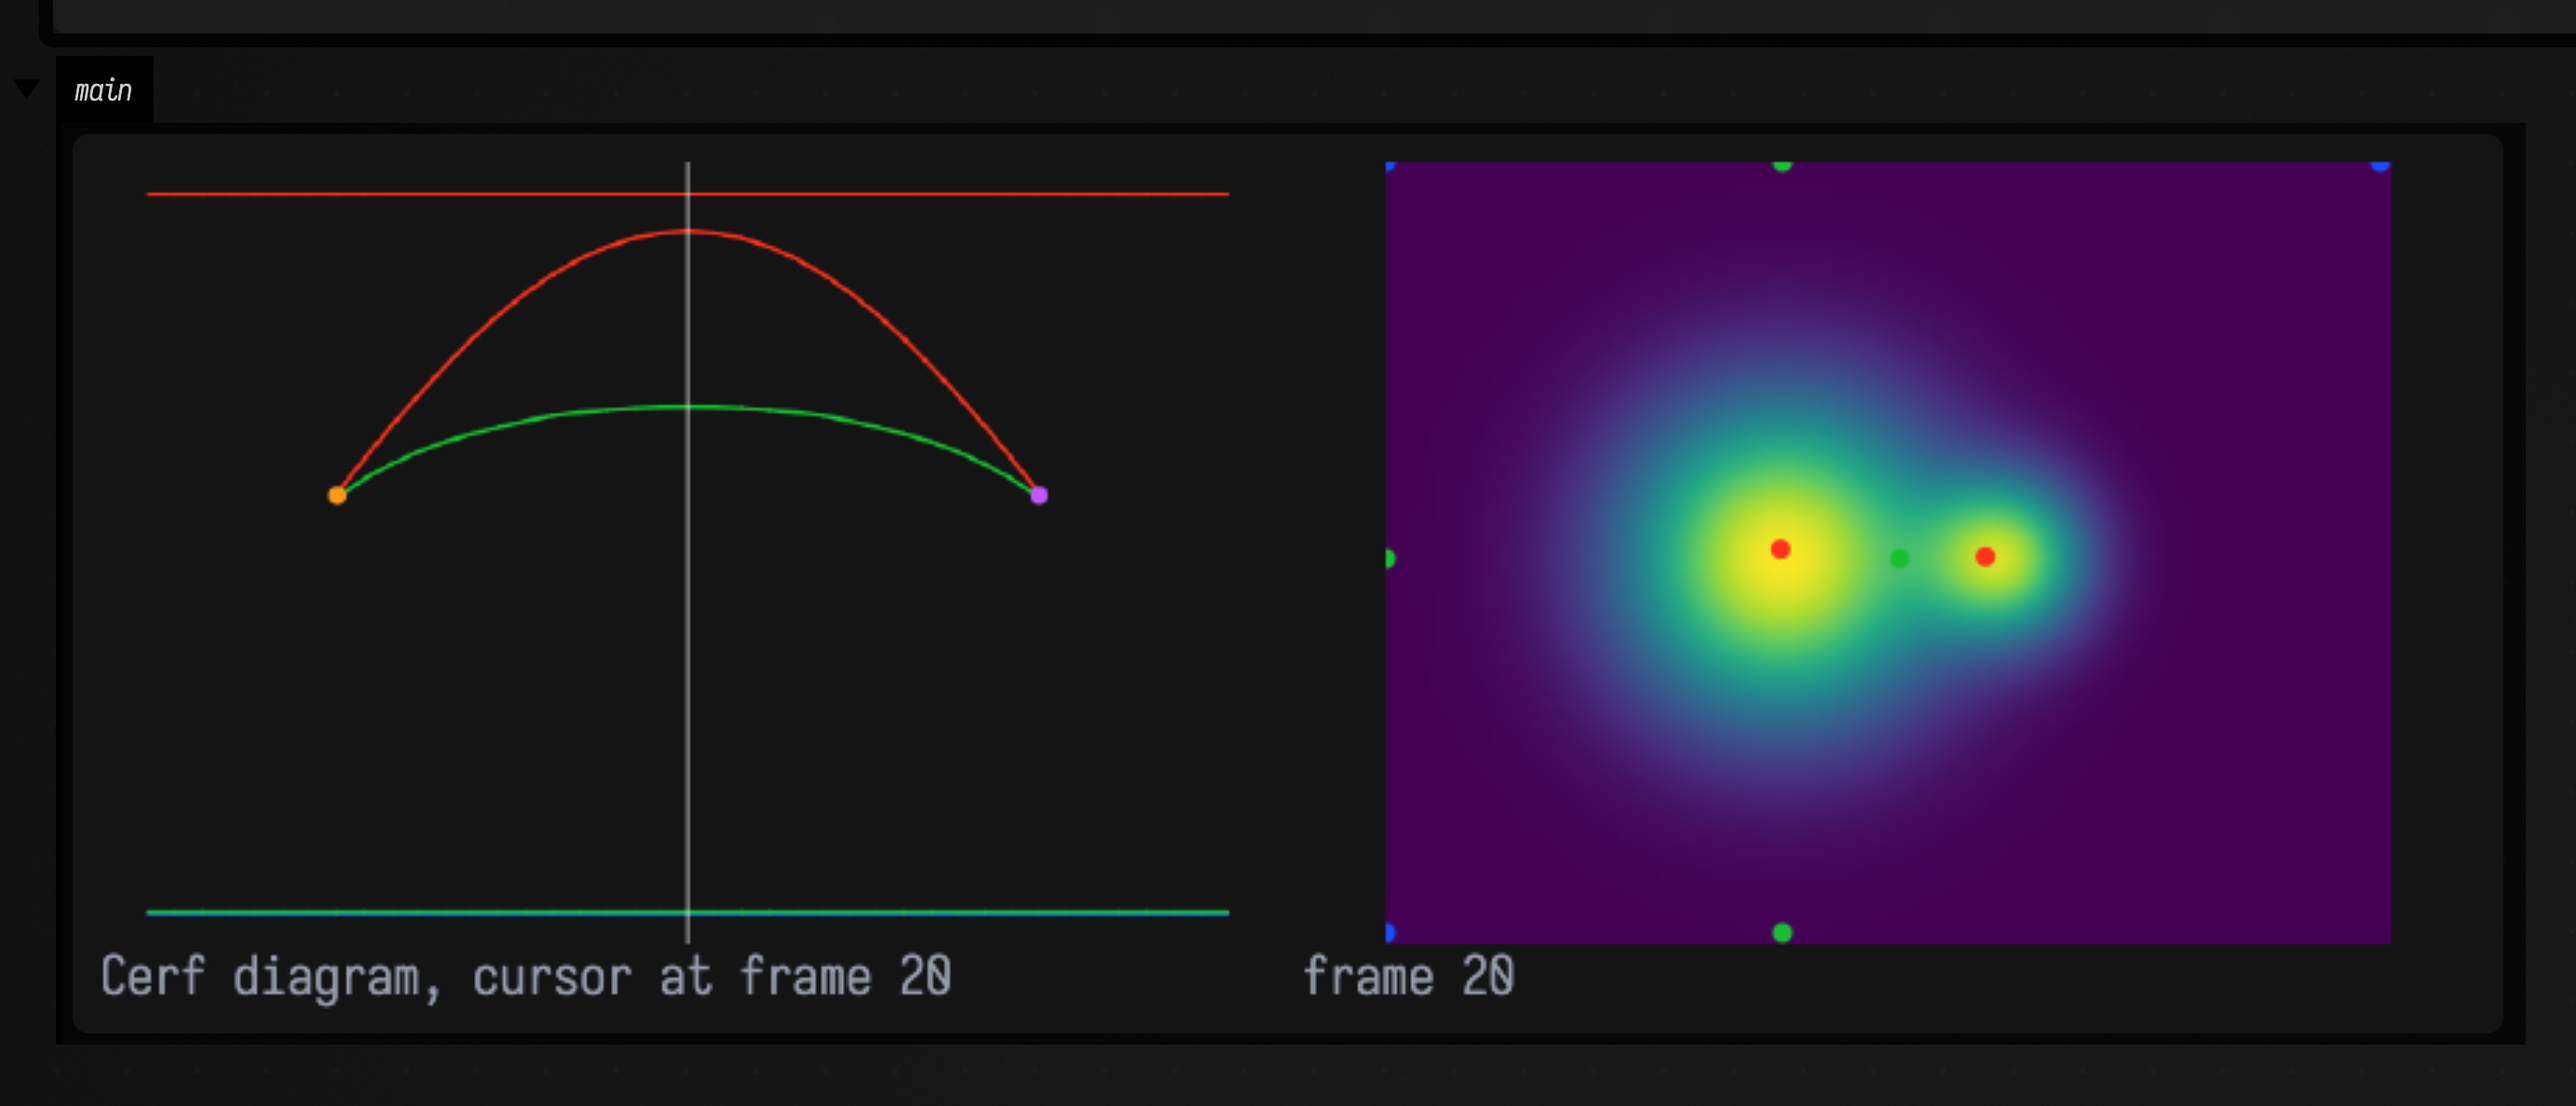
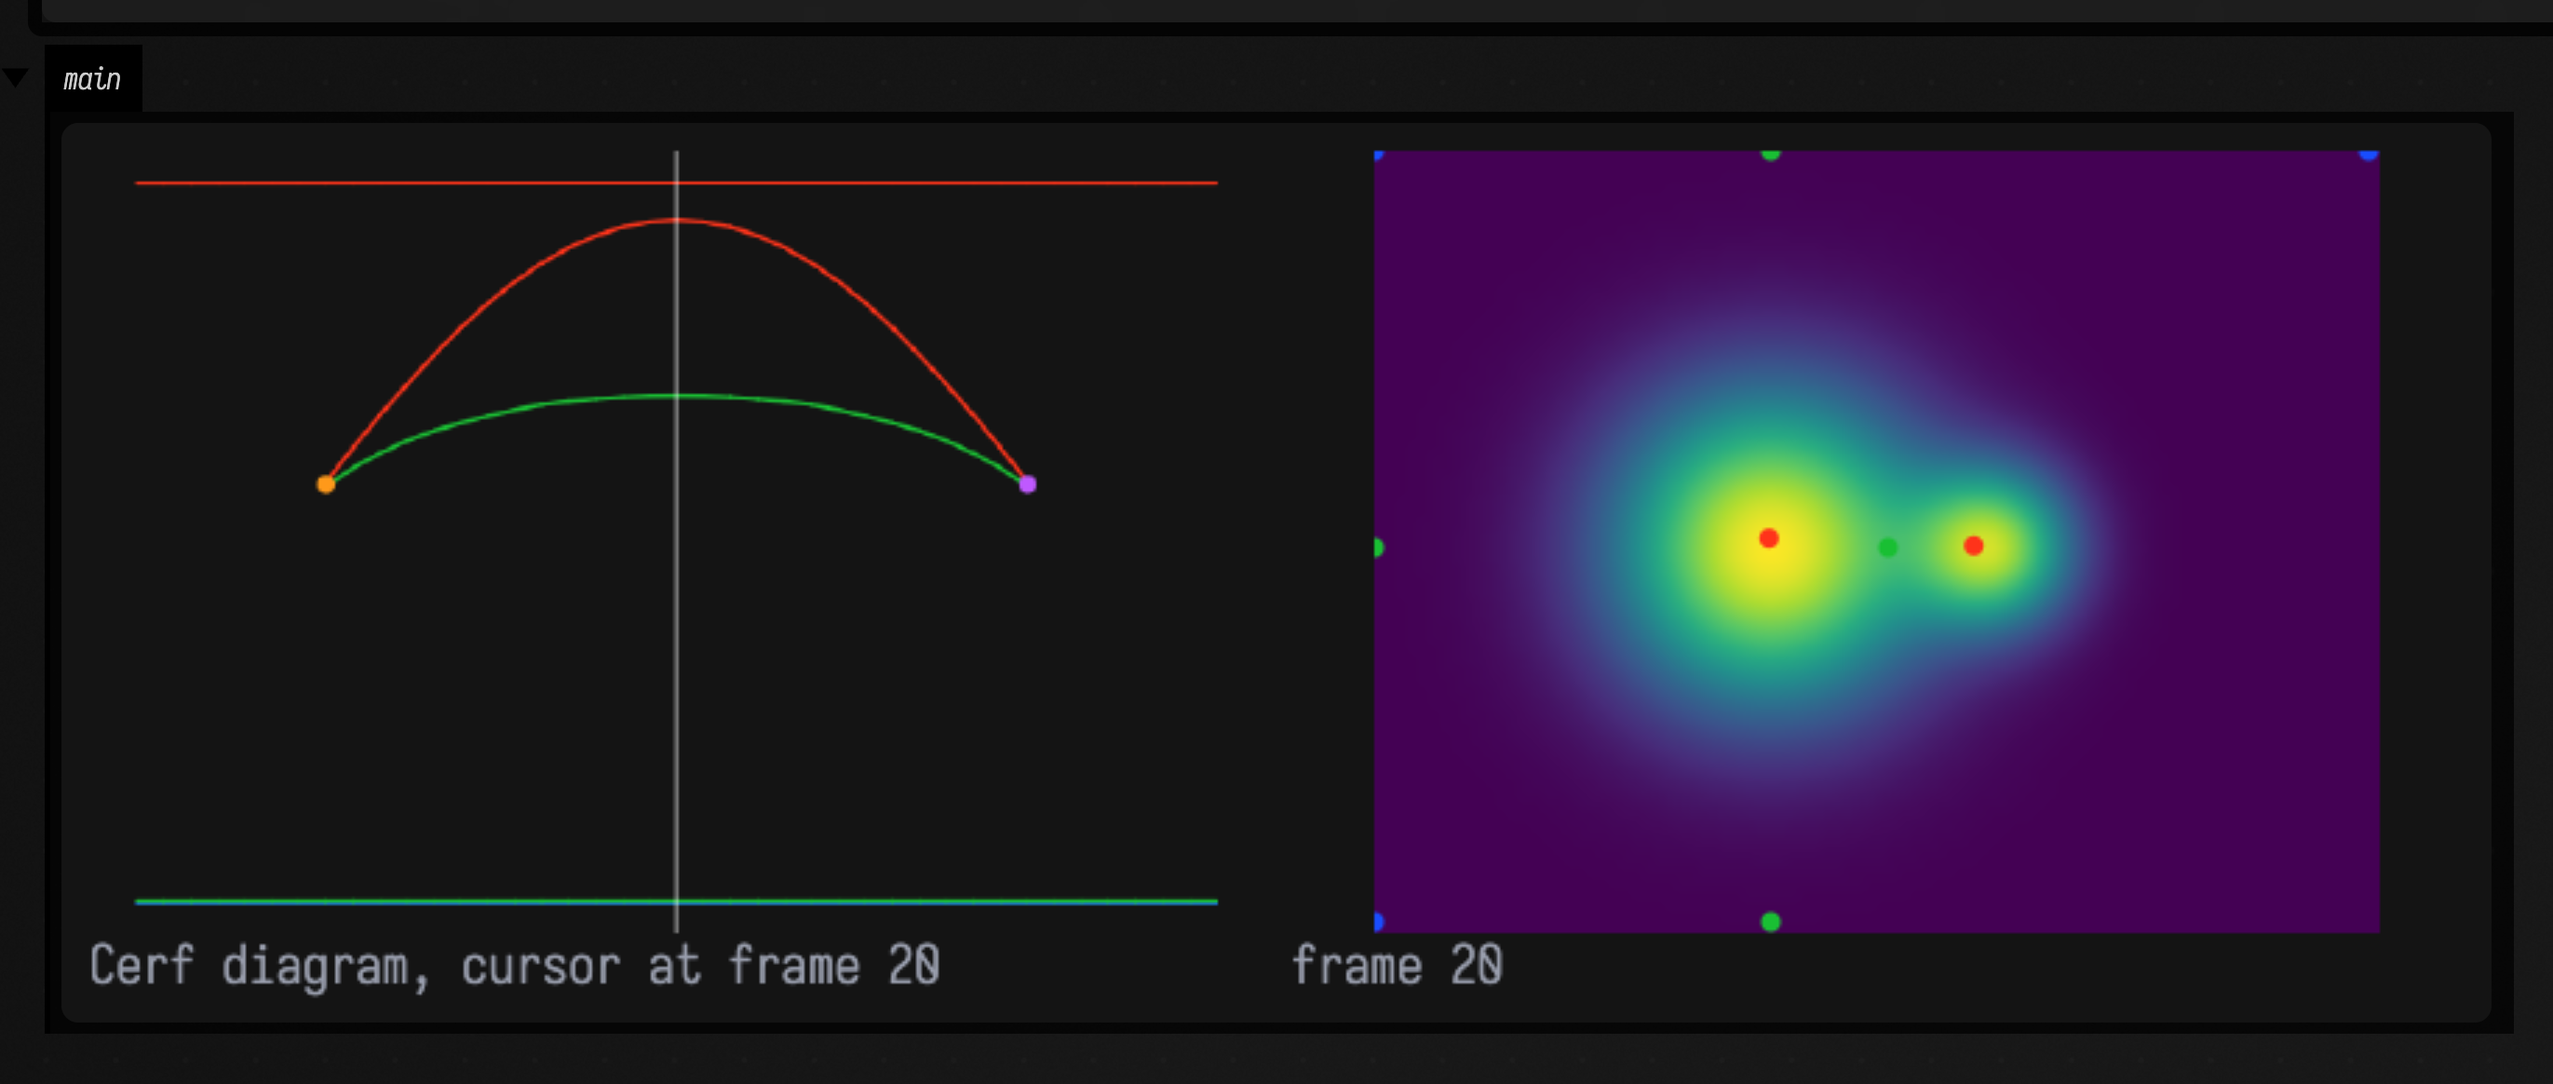
topology_tracking: a churning Gray-Scott Cerf diagram; reframe both captures
Replaces the seed-square example (3 births, half-empty 2.8 MB capture)
with 4,800 steps of spots splitting: 114 births, 35 cancellations,
12,734 swaps. Drops the slider from the figure (its controls channel
widened the panel past the asset budget); the demo keeps it.

diff --git a/public/docs/topology_tracking.md b/public/docs/topology_tracking.md
@@ -184,7 +184,7 @@ At first the flank only has a shoulder. Once the small hill is tall enough, a ma
 (green) appear together at an orange dot. When it shrinks again they meet and cancel at a violet one.
 The field beside the diagram shows frame 20, where the cursor is:
 
-```diffstatic_runner {data-lang=kotlin screenshot="assets/topology_tracking/cerf_flank.png" alt="left, a Cerf diagram on dark grey: a flat red line at the top for the broad hill's peak, and below it a red arc and a green arc that start together at an orange dot, rise, and meet again at a violet dot, crossed by a white vertical cursor in the middle; flat blue and green lines along the bottom for the minima and saddles on the frame's edge. Right, the field at the cursor in viridis: a big yellow hill and a smaller one to its right, each with a red dot, and a green saddle dot between them" wait="4" timeout="240" capture="box" open-outputs="true" padding="20" requires="morse-smale" name="tracking-cerf-flank" embed=true}
+```diffstatic_runner {data-lang=kotlin screenshot="assets/topology_tracking/cerf_flank.png" alt="left, a Cerf diagram on dark grey: a flat red line at the top for the broad hill's peak, and below it a red arc and a green arc that start together at an orange dot, rise, and meet again at a violet dot, crossed by a white vertical cursor in the middle; flat blue and green lines along the bottom for the minima and saddles on the frame's edge. Right, the field at the cursor in viridis: a big yellow hill and a smaller one to its right, each with a red dot, and a green saddle dot between them" wait="4" timeout="240" capture="box" open-outputs="true" padding="16" trim="true" requires="morse-smale" name="tracking-cerf-flank" embed=true}
 import afield.geometry.topology.morsesmale.*
 import afield.geometry.topology.tracking.*
 
@@ -198,7 +198,8 @@ fun field(t: Double) =
 val cerf = CerfDiagram()
 for (frame in 0..40) cerf.add(frame.toDouble(), MorseSmale.compute(field(frame / 40.0)), minPersistence = 1e-3)
 
-val diagram = Img.filled(300, 200, 1, 0.08f).drawFLines(cerf.toFLines(300.0, 200.0, cursor = 20.0, thickness = 2.0), scale = 2.0)
+val diagram =
+    Img.filled(300, 200, 1, 0.08f).drawFLines(cerf.toFLines(300.0, 200.0, cursor = 20.0, thickness = 2.0), scale = 2.0)
 val view = field(0.5).normalized().colormap("viridis").drawFLines(cerf.fieldMarkers(20.0, 7.0), scale = 4.0)
 showImgGrid("Cerf diagram, cursor at frame 20" to diagram, "frame 20" to view, columns = 2, cellSide = 420)
 ```
@@ -210,52 +211,58 @@ the same way. Each event has its `time`, `value`, the `tracks` involved and its 
 the field. `pairIndex` is 0 for a minimum–saddle pair and 1 for a saddle–maximum pair. The flat
 lines along the bottom are critical points on the edge of the grid, where the field is cut off.
 
-### A scrubbable cursor on a simulation
+### A simulation whose topology churns
 
 The diagram is most useful beside a field you did not design. This box runs a
-[Gray–Scott reaction](alife_examples.md) from one square seed in the regime where spots divide.
-It records the diagram over 40 frames, then draws the diagram and the field at the frame the
-slider picks. `fieldMarkers(t)` marks the critical points alive at `t`, and puts a large orange or
-violet dot where a pair is born or cancels within `window` frames of it:
+[Gray–Scott reaction](alife_examples.md) from three seed patches in its spot regime, where every
+spot grows, splits in two and pushes its daughters apart until spots fill the field. It records
+120 frames, 40 steps apart, and draws the diagram with its cursor at frame 70 beside the field at that frame.
+`fieldMarkers(t)` marks the critical points alive at `t`, and puts a large orange or violet dot
+where a pair is born or cancels within `window` frames of it:
 
-```diffstatic_runner {data-lang=kotlin screenshot="assets/topology_tracking/cerf_grayscott.png" alt="a frame slider above two panels. Left, a Cerf diagram: red maximum curves falling steeply from orange birth dots near the start, levelling off and rising again, a green saddle curve and a blue minimum curve falling below them, one violet cancellation dot near the bottom, and the white cursor at frame 12. Right, the Gray–Scott field at frame 12 in magma: a glowing square ring on black with red dots at its four corners, green saddle dots at the middle of each side and a blue minimum in its darker centre" wait="5" timeout="240" capture="box" open-outputs="true" padding="20" requires="morse-smale" name="tracking-cerf-grayscott" embed=true}
+```diffstatic_runner {data-lang=kotlin screenshot="assets/topology_tracking/cerf_grayscott.png" alt="two panels. Left, a dense Cerf diagram: a band of thin red maximum curves near the top and a band of green saddle curves below it, both rising out of a few curves at the left and fanning into dozens that weave through each other, blue minimum curves along the bottom, orange birth dots and violet cancellation dots scattered between the bands, and a white cursor at frame 70. Right, the Gray–Scott field at frame 70 in magma: a front of magenta spots spreading from both sides of the frame across a black middle, a green saddle dot between neighbouring spots, and a few large orange and violet dots where spots are splitting" wait="8" timeout="300" capture="box" open-outputs="true" padding="20" trim="true" requires="morse-smale" name="tracking-cerf-grayscott" embed=true}
 import afield.geometry.topology.morsesmale.*
 import afield.geometry.topology.tracking.*
 
-// A seed square in the middle of a Gray–Scott run in its dividing regime, sampled every 4 steps. The square
-// pinches into four spots, so peaks are created in pairs with saddles between them.
-val inSquare = { x: Int, y: Int -> x in 18..30 && y in 18..30 }
-var state = GrayScottState(
-    Img.generate(48, 48) { x, y -> if (inSquare(x, y)) 0.5f else 1f },
-    Img.generate(48, 48) { x, y -> if (inSquare(x, y)) 0.25f + 0.02f * ((x * 7 + y * 3) % 5) else 0f },
-)
+// Three seed patches in Gray–Scott's spot regime, where each spot grows, splits in two and pushes its
+// daughters apart until the spots fill the field. 120 frames, 40 steps apart: 4,800 steps in all.
+var state = grayScottSeed(96, 96, patches = 3, patchSize = 10, seed = 7)
 val frames = ArrayList<Img>()
 val cerf = CerfDiagram()
-for (frame in 0 until 40) {
-    state = state.stepTimes(GRAY_SCOTT_MITOSIS, 4)
-    val v = state.v.gaussianBlur(1.0)
+for (frame in 0 until 120) {
+    state = state.stepTimes(GRAY_SCOTT_SPOTS, 40)
+    val v = state.v.gaussianBlur(1.5)
     frames.add(v)
-    cerf.add(frame.toDouble(), MorseSmale.compute(v, persistence = 0.02), minPersistence = 0.02)
+    cerf.add(frame.toDouble(), MorseSmale.compute(v, persistence = 0.05), minPersistence = 0.05)
 }
+
+val births = cerf.events(CerfEventType.BIRTH).size
+val deaths = cerf.events(CerfEventType.DEATH).size
+val swaps = cerf.events(CerfEventType.SWAP).size
 
 fun show(t: Double) {
-    val diagram = Img.filled(320, 220, 1, 0.08f).drawFLines(cerf.toFLines(320.0, 220.0, cursor = t, thickness = 2.0), scale = 2.0)
-    val view = frames[t.toInt()].colormap("magma", 0f, 0.4f).drawFLines(cerf.fieldMarkers(t, 6.0, window = 1.0), scale = 9.0)
-    val births = cerf.events(CerfEventType.BIRTH).size
-    val deaths = cerf.events(CerfEventType.DEATH).size
-    showImgGrid("births: $births, cancellations: $deaths" to diagram, "frame ${t.toInt()}" to view, columns = 2, cellSide = 440)
+    val diagram =
+        Img.filled(480, 320, 1, 0.08f)
+            .drawFLines(cerf.toFLines(480.0, 320.0, cursor = t, showSwaps = false, thickness = 1.0), scale = 2.0)
+    val view =
+        frames[t.toInt()].colormap("magma", 0f, 0.4f).drawFLines(cerf.fieldMarkers(t, 4.0, window = 1.0), scale = 5.0)
+    showImgGrid(
+        "$births births, $deaths cancellations, $swaps swaps" to diagram,
+        "frame ${t.toInt()}" to view,
+        columns = 2,
+        cellSide = 480,
+    )
 }
 
-slider("frame", min = 0.0, max = 39.0, step = 1.0, initialValue = 12.0) { show(it) }
-show(12.0)
+show(70.0)
 ```
 
-The square seed becomes a ring, with the reagent piling up at its corners. Four maxima are born
-there in the first frames, each paired with a saddle, and a minimum opens in the middle. Drag the
-slider to see each event's dots light up on the field in the frame where it happens. A busier
-regime, such as `GRAY_SCOTT_WORMS`, produces hundreds of events. Raise `minPersistence` until the
-diagram shows the changes you care about. Pass `showSwaps = false` to `toFLines` to leave out the
-swap dots, which outnumber the other events in a busy field.
+The few curves at the left are the seed patches. Each time a spot divides, a new maximum is born with
+the saddle that separates it from its sister, so the red and green bands thicken together. Spots
+squeezed out by their neighbours cancel with a saddle at a violet dot. Inside each band the curves
+cross all the time: the run has thousands of swaps, which is why this box passes `showSwaps = false`
+to `toFLines`. Call `show` with another frame, or wrap it in a `slider` as the
+[`cerf_explorer`](agent_transcripts.md#cerf_explorer) demo does, to watch each event's dots light up on the field in the frame where it happens. Raise `minPersistence` until the diagram shows only the changes you care about.
 
 !!! note "Sampled in time"
     `CerfDiagram` looks at the field at the frames you give it, so an event is placed at the first

diff --git a/dev_docs/CERF_DIAGRAMS.md b/dev_docs/CERF_DIAGRAMS.md
@@ -11,6 +11,13 @@ Findings:
 - `GRAY_SCOTT_MITOSIS` makes all its events in the first ~30 steps from a seed square (sample every
   3–4 steps); afterwards it is static. `GRAY_SCOTT_WORMS` gives hundreds of events and ~10^4 swaps
   over 100 frames: use `showSwaps = false` and a larger `minPersistence`.
+- The docs' complex figure: `GRAY_SCOTT_SPOTS` from `grayScottSeed(96, 96, 3, 10, seed = 7)`, 120 frames
+  x 40 steps, blur 1.5, persistence 0.05: 114 births, 35 deaths, 12,734 swaps, ~1 s to record. Spots
+  keep splitting for the whole run (the front has not filled the torus at frame 119).
+- A slider's `controls` channel makes a box's output panel full width, so a box still with a slider is
+  mostly empty panel and over the 2 MB asset budget; `trim` cannot remove it (it is not a uniform border).
+  The docs figure shows one cursor; the demo keeps the slider. `trim` is not in the capture digest, so
+  adding it alone does not recapture.
 - Time-sampled, not the exact PL space-time construction of Dhar, Chakraborty, Natarajan
   (arXiv:2507.00725). Exact PL Cerf diagrams (vertex diagram, lower-link homology crossings) and
   their comparison measure are the natural next step.
